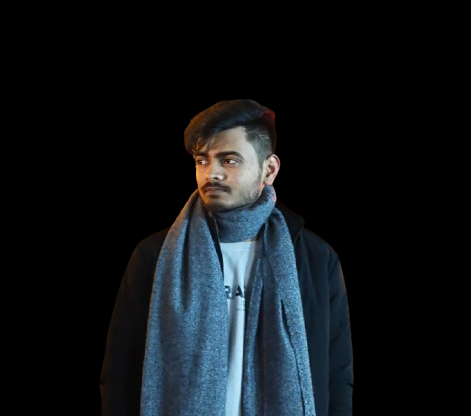
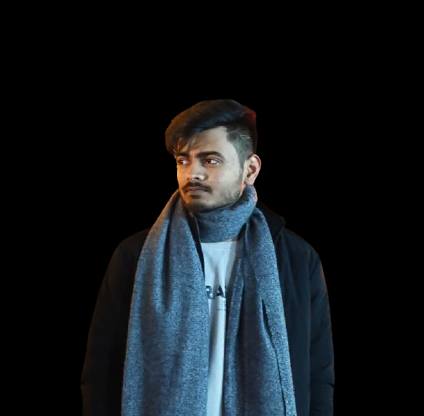
Second commit

diff --git a/public/index.html b/public/index.html
@@ -2,7 +2,7 @@
 <html lang="en">
   <head>
     <meta charset="utf-8" />
-    <link rel="icon" href="%PUBLIC_URL%/WhatsApp_Image_2024-07-10_at_12.57.49_a27d269b-removebg.png" />
+    <link rel="icon" href="%PUBLIC_URL%/WhatsApp Image 2025-01-11 at 16.26.00_5d93148e.jpg" />
     <meta name="viewport" content="width=device-width, initial-scale=1" />
     <meta name="theme-color" content="#000000" />
     <meta
@@ -24,7 +24,7 @@
       work correctly both with client-side routing and a non-root public URL.
       Learn how to configure a non-root public URL by running `npm run build`.
     -->
-    <title>Vashvi Srivastava</title>
+    <title>Mohit Gupta</title>
   </head>
   <body>
     <noscript>You need to enable JavaScript to run this app.</noscript>
